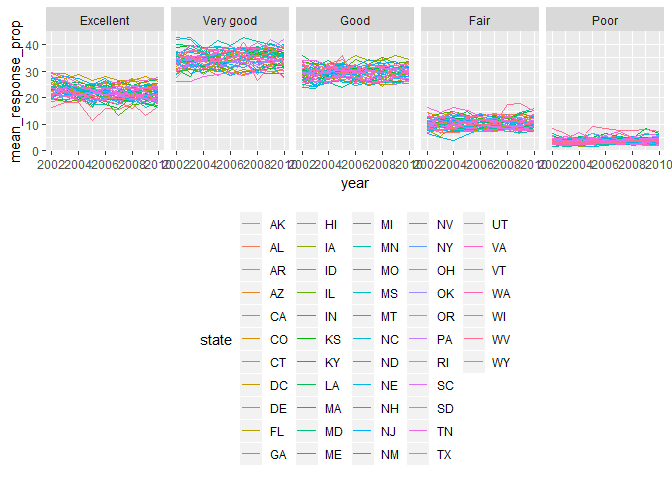
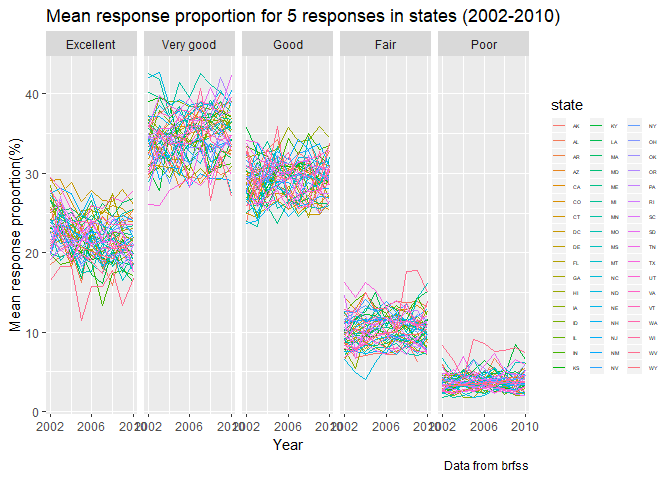
Commit to see if the plots in github looks as bad as in Rmd

diff --git a/p8105_hw3_jy2947.md b/p8105_hw3_jy2947.md
@@ -4,13 +4,16 @@ Jiawei Ye
 
 ### Problem 1
 
+Load the data, filter the data of interest, some cleaning.
+
 ``` r
 data("brfss_smart2010")
 brfss_smart2010 = 
   janitor::clean_names(brfss_smart2010) %>% 
   filter(topic == "Overall Health") %>% 
   rename(state = locationabbr, location = locationdesc)
-brfss_smart2010$response  = factor(brfss_smart2010$response, levels = c("Excellent", "Very good", "Good", "Fair", "Poor"))
+brfss_smart2010$response  = factor(brfss_smart2010$response, 
+                                   levels = c("Excellent", "Very good", "Good", "Fair", "Poor"))
 ```
 
 ``` r
@@ -40,7 +43,7 @@ brfss_smart2010 %>%
   ggplot(aes(x = year, y = n_location)) +
   geom_line(aes(color = state)) +
   labs(
-    title = "Number of observed location in each states in 2002 - 2010",
+    title = "Number of observed locations in each states in 2002 - 2010",
     x = "Year",
     y = "Number of observed location",
     caption = "Data from brfss_smart2010"
@@ -55,7 +58,7 @@ brfss_smart2010 %>%
 
 ![](p8105_hw3_jy2947_files/figure-markdown_github/spaghetti-1.png)
 
-The spaghetti plot shows most states has less than 10 observed location during 2002 - 2010. Florida had more than 40 observed locations in 2007 and 2010, but only had around or less than 10 in other years, which is interesting. New Jersy had around 20 observed locations after 2005.
+The spaghetti plot shows most states has less than 10 observed location during 2002 - 2010. Florida had more than 40 observed locations in 2007 and 2010, but only had around or less than 10 in other years, which is interesting. New Jersy ranked the second and had around 20 observed locations after 2005.
 
 ``` r
 brfss_smart2010 %>% 
@@ -64,15 +67,15 @@ brfss_smart2010 %>%
          response == "Excellent", state == "NY") %>% 
   group_by(year) %>% 
   summarize(mean_excellent_NY = round(mean(data_value), digits = 1),
-            sd_excellent_NY = round(sd(data_value), digits = 1))
+            sd_excellent_NY = round(sd(data_value), digits = 1)) %>% 
+  kable()
 ```
 
-    ## # A tibble: 3 x 3
-    ##    year mean_excellent_NY sd_excellent_NY
-    ##   <int>             <dbl>           <dbl>
-    ## 1  2002              24               4.5
-    ## 2  2006              22.5             4  
-    ## 3  2010              22.7             3.6
+|  year|  mean\_excellent\_NY|  sd\_excellent\_NY|
+|-----:|--------------------:|------------------:|
+|  2002|                 24.0|                4.5|
+|  2006|                 22.5|                4.0|
+|  2010|                 22.7|                3.6|
 
 In NY state about one-fifth people thought their overall health was excellent in 2002, 2006, and 2010. The mean excellent proportion in 2006 and 2010 is about the same, in 2002 it is a bit higher. There is some variance in different location in NY state, but not very much.
 
@@ -83,93 +86,22 @@ brfss_smart2010 %>%
   summarise(mean_response_prop = round(mean(data_value), digits = 1)) %>% 
   ggplot(aes(x = year, y = mean_response_prop)) +
   geom_line(aes(color = state)) +
+  scale_x_continuous(breaks = c(2002, 2006, 2010),
+                   labels = c("2002", "2006", "2010")) +
+  labs(title = "Mean response proportion for 5 responses in states (2002-2010)",
+       x = "Year",
+       y = "Mean response proportion(%)",
+       caption = "Data from brfss") +
+  
   facet_grid(~response) +
-  theme(legend.position = "bottom")
+  theme(legend.position = "right",
+        legend.text = element_text(size = 4),
+        legend.key.size = unit(0.4, "cm"))
 ```
 
     ## Warning: Removed 1 rows containing missing values (geom_path).
 
 ![](p8105_hw3_jy2947_files/figure-markdown_github/response_distribution-1.png)
-
-``` r
-str(brfss_smart2010)
-```
-
-    ## Classes 'tbl_df', 'tbl' and 'data.frame':    10625 obs. of  23 variables:
-    ##  $ year                      : int  2010 2010 2010 2010 2010 2010 2010 2010 2010 2010 ...
-    ##  $ state                     : chr  "AL" "AL" "AL" "AL" ...
-    ##  $ location                  : chr  "AL - Jefferson County" "AL - Jefferson County" "AL - Jefferson County" "AL - Jefferson County" ...
-    ##  $ class                     : chr  "Health Status" "Health Status" "Health Status" "Health Status" ...
-    ##  $ topic                     : chr  "Overall Health" "Overall Health" "Overall Health" "Overall Health" ...
-    ##  $ question                  : chr  "How is your general health?" "How is your general health?" "How is your general health?" "How is your general health?" ...
-    ##  $ response                  : Factor w/ 5 levels "Excellent","Very good",..: 1 2 3 4 5 1 2 3 4 5 ...
-    ##  $ sample_size               : int  94 148 208 107 45 91 177 224 120 66 ...
-    ##  $ data_value                : num  18.9 30 33.1 12.5 5.5 15.6 31.3 31.2 15.5 6.4 ...
-    ##  $ confidence_limit_low      : num  14.1 24.9 28.2 9.5 3.5 11 26 26.1 11.7 4.4 ...
-    ##  $ confidence_limit_high     : num  23.6 35 38 15.4 7.4 20.1 36.5 36.2 19.2 8.3 ...
-    ##  $ display_order             : int  1 2 3 4 5 1 2 3 4 5 ...
-    ##  $ data_value_unit           : chr  "%" "%" "%" "%" ...
-    ##  $ data_value_type           : chr  "Crude Prevalence" "Crude Prevalence" "Crude Prevalence" "Crude Prevalence" ...
-    ##  $ data_value_footnote_symbol: chr  NA NA NA NA ...
-    ##  $ data_value_footnote       : chr  NA NA NA NA ...
-    ##  $ data_source               : chr  "BRFSS" "BRFSS" "BRFSS" "BRFSS" ...
-    ##  $ class_id                  : chr  "CLASS08" "CLASS08" "CLASS08" "CLASS08" ...
-    ##  $ topic_id                  : chr  "Topic41" "Topic41" "Topic41" "Topic41" ...
-    ##  $ location_id               : chr  NA NA NA NA ...
-    ##  $ question_id               : chr  "GENHLTH" "GENHLTH" "GENHLTH" "GENHLTH" ...
-    ##  $ respid                    : chr  "RESP056" "RESP057" "RESP058" "RESP059" ...
-    ##  $ geo_location              : chr  "(33.518601, -86.814688)" "(33.518601, -86.814688)" "(33.518601, -86.814688)" "(33.518601, -86.814688)" ...
-    ##  - attr(*, "spec")=List of 2
-    ##   ..$ cols   :List of 23
-    ##   .. ..$ Year                      : list()
-    ##   .. .. ..- attr(*, "class")= chr  "collector_integer" "collector"
-    ##   .. ..$ Locationabbr              : list()
-    ##   .. .. ..- attr(*, "class")= chr  "collector_character" "collector"
-    ##   .. ..$ Locationdesc              : list()
-    ##   .. .. ..- attr(*, "class")= chr  "collector_character" "collector"
-    ##   .. ..$ Class                     : list()
-    ##   .. .. ..- attr(*, "class")= chr  "collector_character" "collector"
-    ##   .. ..$ Topic                     : list()
-    ##   .. .. ..- attr(*, "class")= chr  "collector_character" "collector"
-    ##   .. ..$ Question                  : list()
-    ##   .. .. ..- attr(*, "class")= chr  "collector_character" "collector"
-    ##   .. ..$ Response                  : list()
-    ##   .. .. ..- attr(*, "class")= chr  "collector_character" "collector"
-    ##   .. ..$ Sample_Size               : list()
-    ##   .. .. ..- attr(*, "class")= chr  "collector_integer" "collector"
-    ##   .. ..$ Data_value                : list()
-    ##   .. .. ..- attr(*, "class")= chr  "collector_double" "collector"
-    ##   .. ..$ Confidence_limit_Low      : list()
-    ##   .. .. ..- attr(*, "class")= chr  "collector_double" "collector"
-    ##   .. ..$ Confidence_limit_High     : list()
-    ##   .. .. ..- attr(*, "class")= chr  "collector_double" "collector"
-    ##   .. ..$ Display_order             : list()
-    ##   .. .. ..- attr(*, "class")= chr  "collector_integer" "collector"
-    ##   .. ..$ Data_value_unit           : list()
-    ##   .. .. ..- attr(*, "class")= chr  "collector_character" "collector"
-    ##   .. ..$ Data_value_type           : list()
-    ##   .. .. ..- attr(*, "class")= chr  "collector_character" "collector"
-    ##   .. ..$ Data_Value_Footnote_Symbol: list()
-    ##   .. .. ..- attr(*, "class")= chr  "collector_character" "collector"
-    ##   .. ..$ Data_Value_Footnote       : list()
-    ##   .. .. ..- attr(*, "class")= chr  "collector_character" "collector"
-    ##   .. ..$ DataSource                : list()
-    ##   .. .. ..- attr(*, "class")= chr  "collector_character" "collector"
-    ##   .. ..$ ClassId                   : list()
-    ##   .. .. ..- attr(*, "class")= chr  "collector_character" "collector"
-    ##   .. ..$ TopicId                   : list()
-    ##   .. .. ..- attr(*, "class")= chr  "collector_character" "collector"
-    ##   .. ..$ LocationID                : list()
-    ##   .. .. ..- attr(*, "class")= chr  "collector_character" "collector"
-    ##   .. ..$ QuestionID                : list()
-    ##   .. .. ..- attr(*, "class")= chr  "collector_character" "collector"
-    ##   .. ..$ RESPID                    : list()
-    ##   .. .. ..- attr(*, "class")= chr  "collector_character" "collector"
-    ##   .. ..$ GeoLocation               : list()
-    ##   .. .. ..- attr(*, "class")= chr  "collector_character" "collector"
-    ##   ..$ default: list()
-    ##   .. ..- attr(*, "class")= chr  "collector_guess" "collector"
-    ##   ..- attr(*, "class")= chr "col_spec"
 
 For most states, 30% - 40% people think their overall health is very good, but not excellent in 2002 - 2010. Less than 10% people thinks their overall health is poor. Generally speaking the majority of people thinks their health status is good or better.
 
@@ -179,21 +111,21 @@ For most states, 30% - 40% people think their overall health is very good, but n
 data("instacart")
 ```
 
-The data has information of some orders from customers, which includes the product information
+The data has information of some orders from customers, which includes product information:
 
 -   the product names ordered by customers
 -   the department of the product ordered by custormers
 -   where is the product located in the inventory
 -   has this product been reordered by this customer
 
-and information about (what I define as) customer behavior
+and information about (what I define as) customer behavior:
 
 -   at what time of the day was the order placed
 -   in what order was the products added into the cart
 -   how often does the customer order from instacart
 
-The key variables are `order_id` (which identifies each order), `product_id`(which identifies each item perchased by a user) and `user_id`(which identifies the user).
-For example, row 1 to row 8 is a order placed by customer with the `user_id` 112108, each row is a product ordered by this custormer. This user mainly perchased diary and produce for daily comsumption, along with a bottle of canned seafood. This user order his(her) groceries at 10am. His(her) last order on instacard was 9 days ago, and he(she) has ordered some of the products before. This dataset has 1384617 rows and 15 variables.
+This dataset has 1384617 rows and 15 variables. The key variables are `order_id` (which identifies each order), `product_id`(which identifies each item perchased by a user) and `user_id`(which identifies the user).
+For example, row 1 to row 8 is a order placed by customer with the `user_id` 112108, each row is a product ordered by this custormer. This user mainly perchased diary and produce for daily comsumption, along with a bottle of canned seafood. This user order his(her) groceries at 10am. His(her) last order on instacard was 9 days ago, and he(she) has ordered some of the products before.
 
 To answer the questions:
 
@@ -222,14 +154,60 @@ instacart %>%
 
 So we have 134 aisles. People are ordering the most item from fresh vegetables, with `aisle_id = 83`.
 
-\`\`\`{r first\_plot}
-=====================
+``` r
+instacart %>%  
+  group_by(aisle) %>% 
+  summarize(n_aisle = n()) %>% 
+  arrange(desc(n_aisle)) %>%
+  ggplot(aes(x = reorder(aisle, n_aisle), y = n_aisle)) +
+  geom_col() +
+  labs(title = "Total number of items ordered in each aisle", 
+       x = "Aisle",
+       y = "Total number of items ordered",
+       caption = "Data from instacart") +
+  theme_classic() +
+  theme(legend.position = "none") +
+  coord_flip()
+```
 
-instacart %&gt;% filter(department == "alcohol") %&gt;% group\_by(aisle) %&gt;% summarize(n\_aisle = n()) %&gt;% ggplot(aes(x = aisle, y = n\_aisle)) + geom\_point(aes(color = aisle)) \#doesn't work instacart %&gt;% group\_by(aisle, department) %&gt;% summarize(n\_aisle = n(), n\_department = n()) %&gt;% ggplot(aes(x = aisle, y = n\_aisle)) + geom\_point(alpha = 0.5)
+![](p8105_hw3_jy2947_files/figure-markdown_github/first_plot-1.png)
 
-ggplot(aes(x = department, y = n\_department)) + geom\_point(aes()) + facet\_wrap(~ department) \#\`\`\`
+``` r
+instacart %>% 
+  filter(aisle == "baking ingredients" |
+         aisle == "dog food care" |
+         aisle == "packaged vegetables fruits") %>%
+  group_by(aisle, product_name) %>% 
+  summarise(item_count = n()) %>% 
+  arrange(desc(item_count)) %>% 
+  top_n(1, item_count)
+```
 
-for the first plot the idea now is to have several panels for different departments.(No idea how to work that out for now) Within each department try the histogram(histogram requires the X-axis data to be continuous, so might use geom\_col/ or just points) for each aisle.
+    ## # A tibble: 3 x 3
+    ## # Groups:   aisle [3]
+    ##   aisle                  product_name                           item_count
+    ##   <chr>                  <chr>                                       <int>
+    ## 1 packaged vegetables f~ Organic Baby Spinach                         9784
+    ## 2 baking ingredients     Light Brown Sugar                             499
+    ## 3 dog food care          Snack Sticks Chicken & Rice Recipe Do~         30
+
+``` r
+instacart %>% 
+  filter(product_name == "Pink Lady Apples" |
+         product_name == "Coffee Ice Cream") %>% 
+  group_by(product_name, order_dow) %>% 
+  summarise(mean_hour = round(mean(order_hour_of_day), digits = 1)) %>%
+  spread(order_dow, mean_hour) %>% 
+  rename(Sunday = "0", Monday = "1", Tuesday = "2", 
+         Wednesday = "3", Thursday = "4", Friday = "5", Saturday = "6")
+```
+
+    ## # A tibble: 2 x 8
+    ## # Groups:   product_name [2]
+    ##   product_name     Sunday Monday Tuesday Wednesday Thursday Friday Saturday
+    ##   <chr>             <dbl>  <dbl>   <dbl>     <dbl>    <dbl>  <dbl>    <dbl>
+    ## 1 Coffee Ice Cream   13.8   14.3    15.4      15.3     15.2   12.3     13.8
+    ## 2 Pink Lady Apples   13.4   11.4    11.7      14.2     11.6   12.8     11.9
 
 ### Problem 3
 
@@ -287,7 +265,7 @@ max_temp =
   filter(!is.na(mean_max))
 
 ggplot(max_temp, aes(x = year, y = mean_max)) + 
-  geom_boxplot(aes(color = id)) +
+  geom_point(aes(color = id)) +
   labs(
 #    title = "Max tempreture in NY weather stations in January and July (1991-2010)", 
     y = "Tempreture (°C)", 
@@ -303,5 +281,34 @@ ggplot(max_temp, aes(x = year, y = mean_max)) +
 
 ![](p8105_hw3_jy2947_files/figure-markdown_github/max_temp_plot-1.png)
 
-ny\_noaa = filter(ny\_noaa, !is.na(snow), !is.na(snwd), !is.na(tmax), !is.na(tmin)) ny\_noaa %&gt;%
-group\_by(id) %&gt;% summarize(n\_id = n()) ny\_noaa = filter(ny\_noaa, id == "USC00300023" | id == "USC00300093" | id == "USC00300331") ny\_noaa %&gt;% select(id, tmax, tmin) %&gt;% gather(key = observation, value = temp, tmax:tmin)
+``` r
+tmax_min = 
+  ggplot(ny_noaa, aes(x = tmin_c, y = tmax_c)) +
+  geom_bin2d() +
+  labs(title = "Tempreture in NY in 1981 - 2010", 
+       x = "Minimun tempreture(°C)", 
+       y = "Maximum tempreture(°C)") +
+  theme_classic() +
+  theme(legend.position = c(0.95, 0.3))
+
+snowfall =
+  ny_noaa %>% 
+    filter(snow_mm > 0 & snow_mm < 100) %>% 
+    ggplot(aes(x = snow_mm)) +
+    geom_density(aes(color = year), alpha = 0.05) +
+    labs(title = "Distribution of snowfall between 0 and 100 by year", 
+         x = "Snowfall (mm)", 
+         y = "Distribution",
+         caption = "Data from ny_noaa") +
+    theme_classic() +
+    theme(legend.position = c(0.9, 0.65),
+          legend.key.size = unit(0.1, "cm"), 
+          legend.text = element_text(size = 7),
+          legend.direction = "vertical")
+    
+tmax_min/snowfall
+```
+
+    ## Warning: Removed 1136276 rows containing non-finite values (stat_bin2d).
+
+![](p8105_hw3_jy2947_files/figure-markdown_github/tmax_tmin-1.png)
